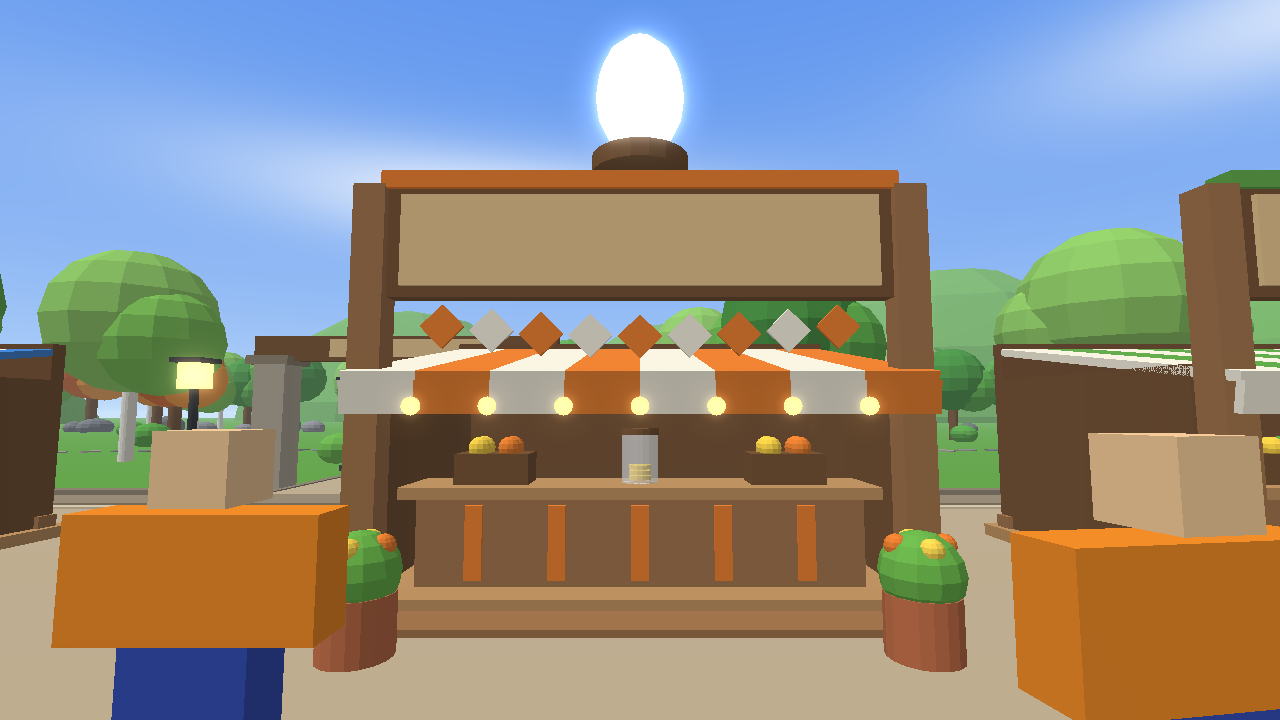
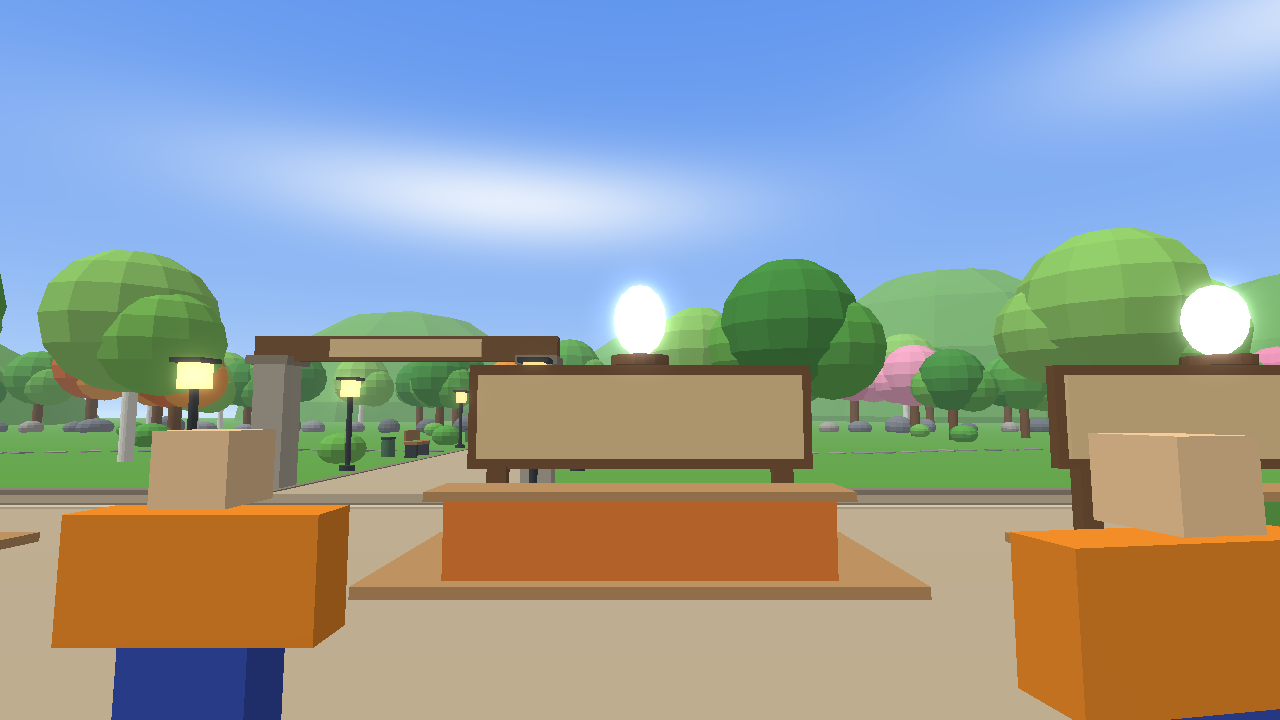
Booth: simplify to low open counter with one big sign (~11 studs tall)
Claude-Session: https://claude.ai/code/session_01AP8HP3Um3E8vVSESCdiw5c

diff --git a/egg-hatchery/README.md b/egg-hatchery/README.md
@@ -32,8 +32,8 @@ seviyesi). Sure gecmekle puan/XP YOKTUR; yumurta yalnizca destekle buyur: seviye
 
 Gunesli dogal park; Please Donate tarzi stand meydani:
 - ortada cesme (8 fiskiyeli), kaldirim tasli meydan, 4 yonde parka acilan yollar, yol agizlarinda "WELCOME" kapilari
-- meydanin 4 kenarinda sira sira 24 renkli pazar tezgahi (her stand kendi renginde: tente, bayrakcik, isik dizisi, meyve
-  sepetleri, bagis kavanozu, saksilar); tabela on tarafta yuksekte, tabelanin ustunde yumurta (`BOOTHS_PER_SIDE` 6 ya da 8)
+- meydanin 4 kenarinda sira sira 24 alcak acik tezgah (yassi platform, onde alcak renkli tezgah, arkada tek buyuk tabela,
+  tabelanin ustunde yumurta; toplam ~11 stud) (`BOOTHS_PER_SIDE` 6 ya da 8)
 - gercek Roblox arazisi (Terrain): kuzey-bati golu + iskele, guney-dogu kucuk gol, ikisini baglayan dere ve +X yolu
   uzerinde ahsap kopru, tepeler; dolambacli tas patikalar, piknik alani, kosk, cicek cayirlari, kamis/nilufer/kayalar
 - 4 cins agac (mese/huş/kiraz/akcaagac), banklar, cop kutulari, lambalar, saksilar, kenarda kaya + agac siralari
